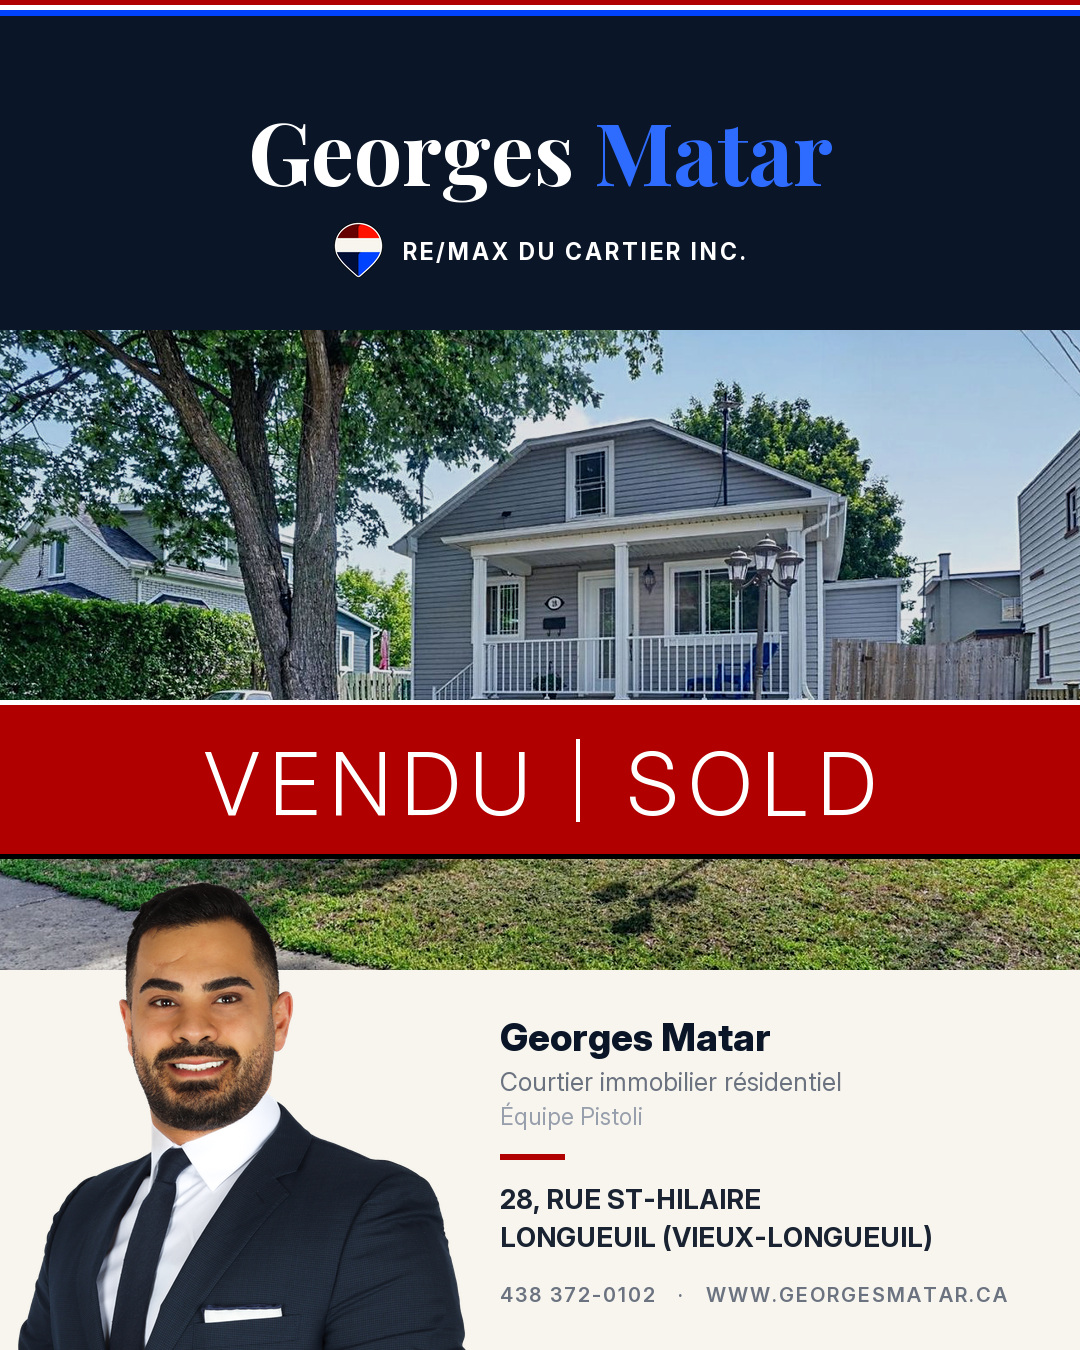
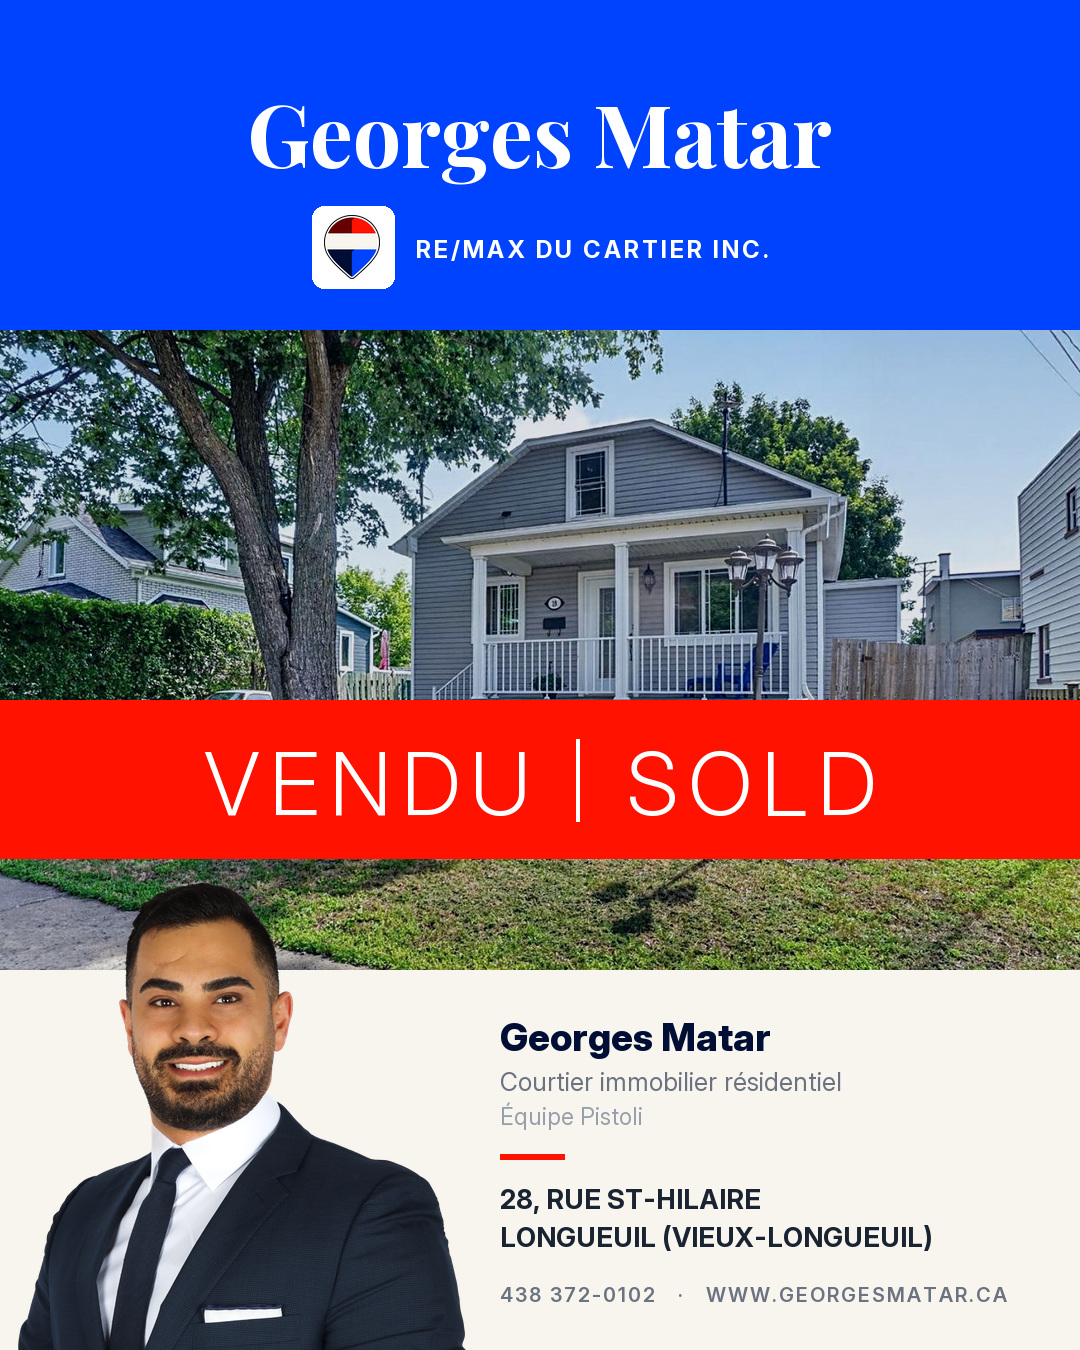
refactor: la publication VENDU monte comme une pancarte RE/MAX
Le triple filet rouge, blanc, bleu du haut disparait. A sa place, trois
aplats: en-tete bleu, bandeau rouge en travers de la photo, pied creme. Les
trois couleurs du ballon, en blocs plutot qu en lignes.

Le bleu et le rouge sont echantillonnes dans static/images/remax-logo.png,
comme le fait deja le generateur des carrousels: #0043ff et #ff1200. Ce bleu
est exactement le --blue de main.css, le site ayant ete construit sur le meme
echantillon.

Le ballon est pose sur une pastille blanche a coins arrondis, comme dans
l eyebrow du site: sans elle, sa moitie bleue se fondrait dans le fond. Le
pied reste clair, sinon le portrait en complet sombre y disparaitrait. Le
bandeau devient un aplat plein, sans filet ni transparence.

diff --git a/carrousel-instagram/vendu/generer-post-vendu.py b/carrousel-instagram/vendu/generer-post-vendu.py
@@ -4,18 +4,18 @@
     python "carrousel-instagram/vendu/generer-post-vendu.py"           les deux
     python "carrousel-instagram/vendu/generer-post-vendu.py" mirabel   une seule
 
-Le visuel courant du marche montrealais, mais habille aux couleurs du site
-georgesmatar.ca plutot qu en blanc neutre. Les valeurs sont prises telles
-quelles dans `static/css/main.css`, le fichier qui habille le site: navy
-#0a1628, rouge #B00000, bleu #0043FF, creme #F7F5EE, Playfair pour les titres
-et Inter pour le reste. Le profil Instagram et le site se repondent.
+Le visuel courant du marche montrealais, monte comme une pancarte RE/MAX:
+trois aplats, les trois couleurs du ballon, et rien d autre.
 
-La structure, de haut en bas:
+1. l en-tete bleu, le nom du courtier et la pastille de l agence
+2. la facade en plein cadre, barree du bandeau rouge VENDU | SOLD
+3. le pied creme: le portrait, le titre, l adresse
 
-1. le triple filet rouge, blanc, bleu du ballon RE/MAX, sur fond navy
-2. le nom du courtier, dont le patronyme en bleu, comme le hero du site
-3. la facade en plein cadre, barree d un bandeau rouge VENDU | SOLD
-4. le pied creme: le portrait, le titre, l adresse
+Le bleu et le rouge ne sont pas choisis a l oeil: ils sont echantillonnes
+dans `static/images/remax-logo.png`, comme le fait deja le generateur des
+carrousels. Le ballon donne #0043ff et #ff1200, et ce bleu est exactement le
+`--blue` de `static/css/main.css`: la pancarte, le site et le profil parlent
+la meme langue. Playfair pour le nom, Inter pour le reste.
 
 Pas de prix, pas de caracteristiques. Ce n est pas une annonce, c est une
 preuve, et elle doit se lire en une seconde dans un fil.
@@ -40,20 +40,19 @@ MARGE = 72
 ENTETE_H = 330                          # le bloc navy du haut
 PHOTO_Y0, PHOTO_Y1 = 330, 970           # la bande de photo, pleine largeur
 
-# --------------------------------------------- palette du site, main.css
-NAVY = (10, 22, 40)                     # --navy
-ROUGE = (176, 0, 0)                     # --red
-BLEU = (0, 67, 255)                     # --blue
-BLEU_VIF = (46, 107, 255)               # --blue-bright, lisible sur le navy
-CREME = (247, 245, 238)                 # --off-white
+# ------------------------------------- palette, echantillonnee dans le logo
+# remax-logo.png donne ces deux valeurs au pixel pres. Le bleu est aussi le
+# --blue de main.css: le site a ete construit sur le meme echantillon.
+BLEU = (0, 67, 255)                     # #0043ff, le ballon et --blue
+ROUGE = (255, 18, 0)                    # #ff1200, le ballon
+NAVY = (0, 14, 53)                      # #000e35, le fonce du logo
+CREME = (247, 245, 238)                 # --off-white du site
 TEXTE = (26, 35, 50)                    # --text
 GRIS = (107, 114, 128)                  # --gray
 GRIS_PALE = (152, 159, 172)
 BLANC = (255, 255, 255)
 
-COURTIER_PRENOM = "Georges "
-COURTIER_NOM = "Matar"
-COURTIER = COURTIER_PRENOM + COURTIER_NOM
+COURTIER = "Georges Matar"
 TITRE = "Courtier immobilier résidentiel"
 # l attribution a l Equipe Pistoli est due, mais elle n a pas a concurrencer
 # le nom du courtier: elle reste dans le pied, en gris pale, sous le titre
@@ -82,30 +81,28 @@ PROPRIETES = [
 
 
 def entete(c):
-    """Fond navy, filet RE/MAX, nom du courtier et agence."""
+    """L en-tete bleu: le nom du courtier, puis la pastille de l agence.
+
+    Le ballon est pose sur une pastille blanche a coins arrondis, comme le
+    fait le site dans son eyebrow: sans elle, la moitie bleue du ballon se
+    fondrait dans le bleu du fond.
+    """
     d = ImageDraw.Draw(c)
-    d.rectangle([0, 0, W, ENTETE_H], fill=NAVY + (255,))
+    d.rectangle([0, 0, W, ENTETE_H], fill=BLEU + (255,))
+    d.text((W // 2, 74), COURTIER, font=playfair(86, 700), fill=BLANC,
+           anchor="ma")
 
-    # le triple filet du ballon: rouge, blanc, bleu
-    for i, couleur in enumerate([ROUGE, BLANC, BLEU]):
-        d.rectangle([0, i * 5, W, i * 5 + 5], fill=couleur + (255,))
-
-    # le patronyme en bleu, exactement comme le titre du hero sur le site
-    f = playfair(86, 700)
-    wp = d.textlength(COURTIER_PRENOM, font=f)
-    wn = d.textlength(COURTIER_NOM, font=f)
-    x = (W - (wp + wn)) / 2
-    d.text((x, 92), COURTIER_PRENOM, font=f, fill=BLANC)
-    d.text((x + wp, 92), COURTIER_NOM, font=f, fill=BLEU_VIF)
-
-    lh = 56
+    cote, pad = 82, 9
+    lh = cote - 2 * pad
     lw = logo_w(lh, False)
-    fl = inter(23, 700)
+    fl = inter(24, 700)
     lbl = "RE/MAX DU CARTIER INC."
-    total = lw + 20 + tw(d, lbl, fl, 3)
+    total = cote + 22 + tw(d, lbl, fl, 3)
     x = (W - total) / 2
-    logo(c, lh, (x, 222), white=False)
-    tracked(d, (x + lw + 20, 222 + lh / 2 - 13), lbl, fl, BLANC, 3)
+    y = 206
+    d.rounded_rectangle([x, y, x + cote, y + cote], 12, fill=BLANC + (255,))
+    logo(c, lh, (x + (cote - lw) / 2, y + pad), white=False)
+    tracked(d, (x + cote + 22, y + cote / 2 - 13), lbl, fl, BLANC, 3)
 
 
 def bande_photo(c, prop):
@@ -134,9 +131,8 @@ def bandeau_vendu(c, prop):
     haut = prop.get("bandeau", 596)
     bas = haut + 158
     d = ImageDraw.Draw(c)
-    d.rectangle([0, haut, W, bas], fill=ROUGE + (242,))
-    d.rectangle([0, haut, W, haut + 4], fill=BLANC + (70,))
-    d.rectangle([0, bas - 4, W, bas], fill=(0, 0, 0, 52))
+    # aplat plein, sans filet ni transparence: une pancarte, pas un calque
+    d.rectangle([0, haut, W, bas], fill=ROUGE + (255,))
 
     f = inter(88, 300)
     track = 9
@@ -195,7 +191,7 @@ def pied(c, prop):
 
 
 def fabriquer(prop):
-    c = Image.new("RGBA", (W, H), NAVY + (255,))
+    c = Image.new("RGBA", (W, H), CREME + (255,))
     entete(c)
     bande_photo(c, prop)
     bandeau_vendu(c, prop)

diff --git a/carrousel-instagram/vendu/README.md b/carrousel-instagram/vendu/README.md
@@ -14,38 +14,42 @@ les gens qui ne suivent pas encore le compte.
 
 ## La publication VENDU | SOLD
 
-Le visuel courant du marché montréalais, mais habillé aux couleurs du site
-georgesmatar.ca plutôt qu'en blanc neutre. De haut en bas:
+Le visuel courant du marché montréalais, monté comme une pancarte RE/MAX:
+trois aplats, les trois couleurs du ballon, et rien d'autre.
 
-1. le triple filet rouge, blanc, bleu du ballon RE/MAX, sur fond navy
-2. le nom du courtier, dont le patronyme en bleu, comme le titre du hero sur
-   le site
-3. la façade en plein cadre, barrée d'un bandeau rouge VENDU | SOLD
-4. le pied crème: le portrait, le titre, l'adresse
+1. **L'en-tête bleu**: le nom du courtier en Playfair blanc, puis le ballon
+   sur sa pastille blanche et RE/MAX DU CARTIER INC.
+2. **La façade** en plein cadre, barrée du **bandeau rouge VENDU | SOLD**.
+3. **Le pied crème**: le portrait, le titre, l'adresse.
 
 Pas de prix, pas de caractéristiques. Ce n'est pas une annonce, c'est une
 preuve, et elle doit se lire en une seconde dans un fil.
 
 ### Les couleurs
 
-Prises telles quelles dans `static/css/main.css`, le fichier qui habille le
-site. Le profil Instagram et le site se répondent au lieu de vivre chacun de
-leur côté.
+Elles ne sont pas choisies à l'oeil: elles sont échantillonnées dans
+`static/images/remax-logo.png`, comme le fait déjà le générateur des
+carrousels. Le ballon donne deux valeurs, et son bleu est exactement le
+`--blue` de `static/css/main.css`: la pancarte, le site et le profil parlent
+la même langue.
 
-| Rôle | Variable du site | Valeur |
-|------|------------------|--------|
-| En-tête, nom du courtier | `--navy` | `#0a1628` |
-| Bandeau VENDU, filet d'accent | `--red` | `#B00000` |
-| Patronyme, filet du ballon | `--blue` / `--blue-bright` | `#0043FF` / `#2E6BFF` |
-| Fond du pied | `--off-white` | `#F7F5EE` |
-| Adresse, texte courant | `--text` / `--gray` | `#1a2332` / `#6b7280` |
+| Rôle | Valeur | D'où elle vient |
+|------|--------|-----------------|
+| En-tête | `#0043ff` | le bleu du ballon, et le `--blue` du site |
+| Bandeau VENDU, filet d'accent | `#ff1200` | le rouge du ballon |
+| Fond du pied | `#F7F5EE` | `--off-white` du site |
+| Adresse, texte courant | `#1a2332` / `#6b7280` | `--text` et `--gray` du site |
 
-Le pied reste clair alors que l'en-tête est navy: le portrait est un découpé
-en complet sombre, il disparaîtrait sur un fond foncé.
+Trois précisions de fabrication:
 
-Le bandeau rouge remplace le texte blanc posé sur la photo. C'est le seul
-traitement qui reste lisible dans une vignette de fil, et c'est le code
-couleur que tout le monde associe déjà à RE/MAX.
+- Le ballon est posé sur une **pastille blanche à coins arrondis**, comme le
+  fait le site dans son eyebrow. Sans elle, la moitié bleue du ballon se
+  fondrait dans le bleu du fond.
+- Le pied reste clair alors que l'en-tête est bleu: le portrait est un
+  découpé en complet sombre, il disparaîtrait sur un fond foncé.
+- Le bandeau est un **aplat plein**, sans filet ni transparence. C'est le
+  seul traitement qui reste lisible dans une vignette de fil, et c'est le
+  code couleur que tout le monde associe déjà à RE/MAX.
 
 ```
 python "carrousel-instagram/vendu/generer-post-vendu.py"           les deux
